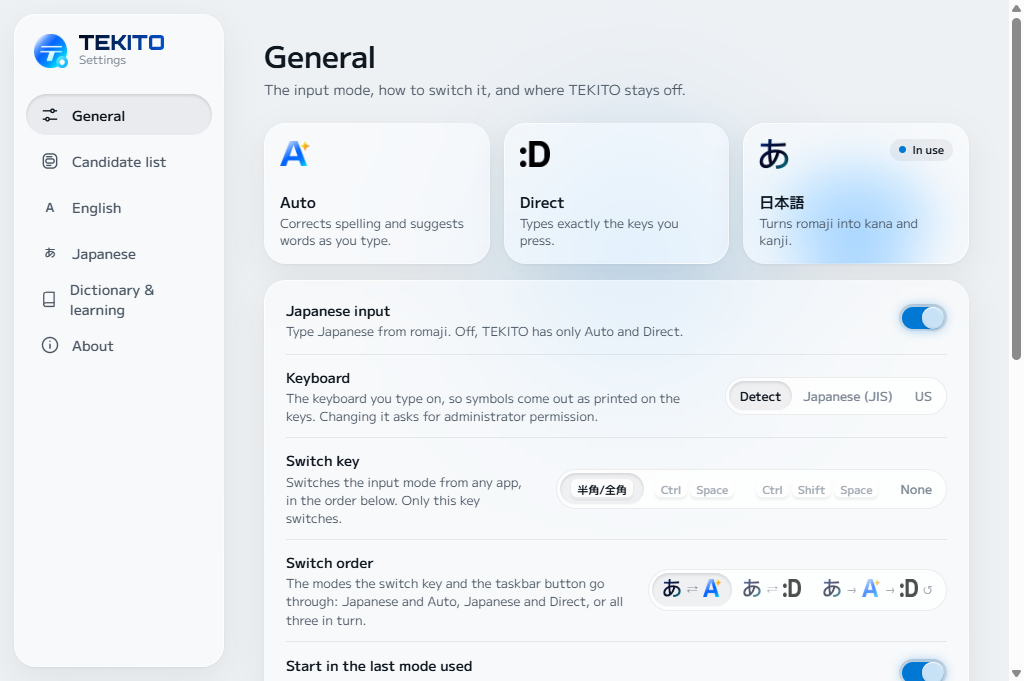
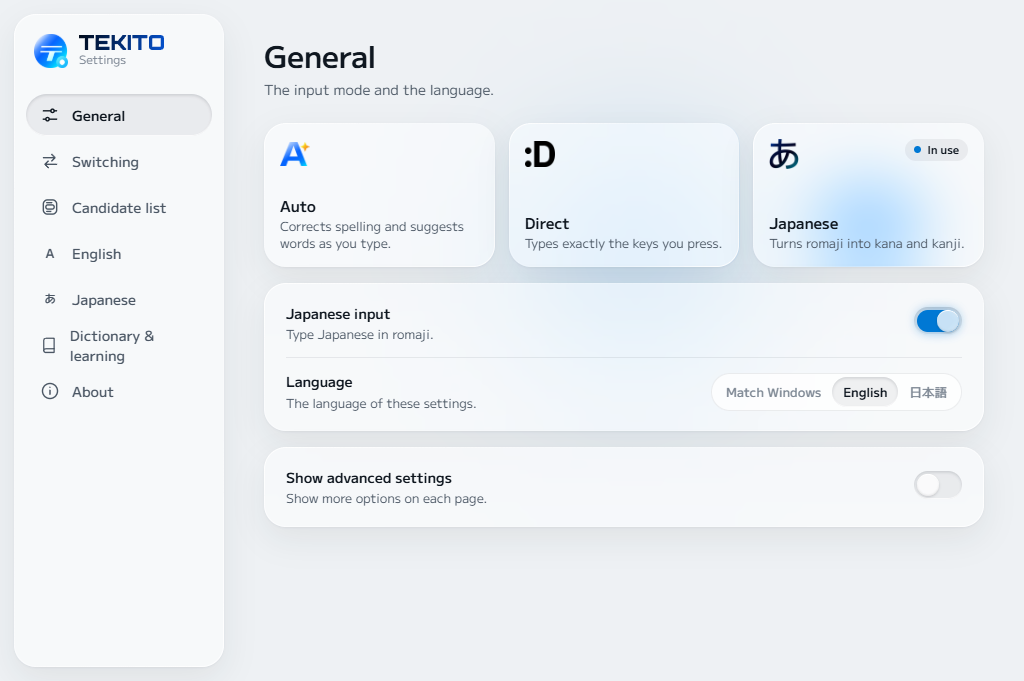
Prepare 0.3.0
Bump the version, describe special conversions, the Japanese user
dictionary, numbers and postal codes and advanced settings in the READMEs,
note in the privacy notice that postal codes are added by hand, and retake
the Settings screenshots.

diff --git a/apps/tekito-settings/ui/src/devHost.js b/apps/tekito-settings/ui/src/devHost.js
@@ -52,7 +52,7 @@ function initialState() {
       excludedApps: ["Code.exe"],
       builtInExcludedApps: ["WindowsTerminal.exe", "OpenConsole.exe", "conhost.exe", "cmd.exe", "powershell.exe", "pwsh.exe"],
     },
-    version: "0.2.0",
+    version: "0.3.0",
     mode: japaneseInstalled ? "japanese" : "auto",
     runtime: { tsf: "Loaded", dataPacks: "12 / 13", japaneseData: japaneseInstalled ? "6 / 6" : "0 / 6", japanese: japaneseInstalled,
       // "?keyboard=us": Windows reports a US keyboard.

diff --git a/README_JP.md b/README_JP.md
@@ -58,7 +58,7 @@ TEKITO は IME（TSF のテキストサービス）なので、普通の Windows
   </tr>
 </table>
 
-切り替えキーは、日本語キーボードなら半角/全角、US キーボードなら Alt+` です（Ctrl+Space、Ctrl+Shift+Space、なしも選べます）。日本語を追加すると、切り替えの順番を「日本語 ⇄ Auto」「日本語 ⇄ Direct」「日本語 → Auto → Direct」から設定で選べます。日本語キーボードでは、変換キーで日本語、無変換キーで英語、ひらがなキーでひらがなの日本語（Shift でカタカナ）になります。
+切り替えキーは、日本語キーボードなら半角/全角、US キーボードなら Alt+` です（Ctrl+Space、Ctrl+Shift+Space、なしも選べます）。日本語を追加すると、切り替えの順番を「日本語 ⇄ Auto」「日本語 ⇄ Direct」「日本語 → Auto → Direct」から設定で選べます。日本語キーボードでは、変換キーで日本語、無変換キーで英語、ひらがなキーでひらがなの日本語（Shift でカタカナ）になります。切り替えると、入力している場所に新しいモードが少しだけ表示されます。
 
 日本語入力は追加するかどうかを選べます。入れていないとき、または設定でオフにしたときは、Auto と Direct だけになります。ターミナル、管理者として実行中のアプリ、設定で追加したアプリでは、TEKITO はオフになります。
 
@@ -76,6 +76,8 @@ Auto で普段どおりに打ちます。入力中の単語に下線が付き、
 | Enter | 候補を選んでいるときはその候補で確定します。それ以外は普通の改行です。 |
 
 次の文字を打った時点で単語は確定するので、あとから取り消す操作はありません。知っている単語、「brb」のようなチャットの略語、自分で大文字にして打った語、コードらしい文字列、URL やアドレス、パスワード・数字・メール用の欄には手を出しません。
+
+いくつかのものは候補にも出ます。「today」「now」で日付と時刻、「(c)」「->」で © と →、「1+2=」で 3 です。打ったとおりが先頭のままなので、選ばなければ何も変わりません。
 
 ![TEKITO の候補リスト。グラスとシンプル、ライトとダーク。選んでいる語の意味が横に出る](docs/images/candidate-list-ja.png)
 
@@ -105,20 +107,25 @@ Auto で普段どおりに打ちます。入力中の単語に下線が付き、
 - **候補の横に意味。** 意味のある候補には小さな本のマークが付き、選んでいる候補の意味が一覧の横に出ます。「初め」と「始め」の違いもその場でわかります。
 - **カタカナには英語も。** 外来語には英単語も候補に出します（ミーティング → meeting）。
 - **書き方を覚えます。** 読みに対して選んだ変換が、次から先に出ます。
+- **自分の単語。** 設定で読みと書き方を登録できます。最初に出すか、候補に出すだけか、出さないかも選べます。
+- **数字・日付・記号。** 数字を数として読むので、「3こ」は「3個」、「100えん」は「100円」になります。数字を変換すると、もう一方の幅や漢数字（千二百三十四）も出ます。「きょう」「いま」で日付と時刻、「やじるし」「ほし」で記号、「にこにこ」で顔文字、「1+2=」で答えが出ます。読みの単語のあとには単漢字も並びます。
+- **郵便番号。** **設定 → 辞書と学習** で日本郵便の郵便番号データを入れると、「1000001」が住所に変換できます。
 
 ## 設定
 
 ![TEKITO の設定画面](docs/images/settings-ja.png)
 
+設定画面には、よく使う項目だけを出しています。「一般」の最後にある **詳細設定を表示** をオンにすると、日本語で打つ文字の幅や、特別な変換を 1 つずつオン・オフするページなど、残りの項目も出ます。
+
 設定画面、インストーラー、TEKITO のメッセージは日本語と英語に対応しています。通常は Windows の表示言語に合わせて表示され、**設定 → 一般 → 表示言語** で切り替えられます。
 
 ## プライバシー
 
-TEKITO の処理はすべて PC の中で行います。入力した内容をどこにも送らず、アカウントもテレメトリもなく、入力中にネットワークを使いません。選んだ候補から学習した内容は `%LOCALAPPDATA%\TEKITO` に保存され、設定画面から消せます。ダウンロードするのは、インストール時に日本語を選んだときの日本語データだけです。詳しくは[プライバシーについて](PRIVACY.md)を参照してください。
+TEKITO の処理はすべて PC の中で行います。入力した内容をどこにも送らず、アカウントもテレメトリもなく、入力中にネットワークを使いません。選んだ候補から学習した内容は `%LOCALAPPDATA%\TEKITO` に保存され、設定画面から消せます。ダウンロードするのは、インストール時に日本語を選んだときの日本語データだけです。郵便番号は、自分で日本郵便からダウンロードしたファイルを設定で入れます。詳しくは[プライバシーについて](PRIVACY.md)を参照してください。
 
 ## インストール
 
-[Releases](https://github.com/Canta360/tekito/releases/latest) から `TEKITO-0.2.0-full-installer.exe` をダウンロードして実行します。
+[Releases](https://github.com/Canta360/tekito/releases/latest) から `TEKITO-0.3.0-full-installer.exe` をダウンロードして実行します。
 
 - **日本語入力を追加する**（Windows が日本語表示ならオン）を選ぶと、日本語の辞書と言語データ（約 45 MB）を同じリリースからダウンロードし、インストーラーが持っているチェックサムと照合します。TEKITO は日本語のキーボード一覧に入ります。英語は Auto と Direct で打てるので、英語の一覧からは外れます（**オプション**で残すこともできます）。
 - 日本語を選ばない場合は、英語のキーボード一覧に Auto と Direct の TEKITO が入ります。あとからインストーラーを実行し直せば日本語を追加できます。

diff --git a/README.md b/README.md
@@ -68,7 +68,8 @@ one (or Ctrl+Space, Ctrl+Shift+Space, or none). With Japanese, it goes
 between Japanese and Auto, Japanese and Direct, or round all three, as you
 choose in Settings. On
 a Japanese keyboard, Henkan switches to Japanese, Muhenkan to English, and
-Hiragana to Japanese in hiragana (katakana with Shift).
+Hiragana to Japanese in hiragana (katakana with Shift). After a switch, the
+new mode shows by the caret for a moment.
 
 Japanese input is optional. Without it, or with it turned off in Settings,
 TEKITO has Auto and Direct only. It stays off in terminals, in apps running
@@ -92,6 +93,10 @@ Typing the next letter settles the word, so there is nothing to undo later.
 TEKITO leaves alone words it recognizes, chat abbreviations like “brb”,
 anything you capitalize yourself, anything that looks like code, URLs and
 addresses, and fields marked as passwords, numbers or email.
+
+A few things come up as choices too: “today” and “now” offer the date and
+time, “(c)” and “->” offer © and →, and “1+2=” offers 3. What you typed
+stays first, so nothing changes unless you pick one.
 
 ![The TEKITO candidate list, glass and simple, in light and dark, with the meaning of the highlighted word beside it](docs/images/candidate-list.png)
 
@@ -134,10 +139,23 @@ for the phrase in focus.
   (ミーティング → meeting).
 - **It learns your way of writing.** The conversion you pick for a reading
   comes first the next time.
+- **Your own words.** Add a reading and how you write it in Settings, and
+  choose whether it comes first, is only offered, or never comes up.
+- **Numbers, dates and symbols.** Digits read as numbers, so 3こ is 3個 and
+  100えん 100円, and converting a number offers the other width and kanji
+  (千二百三十四). きょう and いま offer the date and time, やじるし and ほし
+  symbols, にこにこ emoticons, and 1+2= its answer. Single kanji come after
+  a reading's words.
+- **Postal codes.** Add Japan Post's postal code data under
+  **Settings → Dictionary & learning**, and 1000001 converts to its address.
 
 ## Settings
 
 ![TEKITO Settings](docs/images/settings.png)
+
+Settings shows what most people change; **Show advanced settings** at the
+end of General adds the rest, such as the widths of what you type in
+Japanese and a page to turn each special conversion on or off.
 
 Settings, the setup program and TEKITO's own messages are available in
 English and Japanese; they follow the Windows display language unless you
@@ -150,11 +168,13 @@ typing anywhere, it has no account and no telemetry, and it does not use the
 network while you type. What it learns from your choices stays in
 `%LOCALAPPDATA%\TEKITO` and can be cleared from Settings. The only download
 is the Japanese data, fetched by the setup program when you choose Japanese.
+Postal codes come from a file you download from Japan Post yourself and add
+in Settings.
 See [the privacy notice](PRIVACY.md).
 
 ## Install
 
-Download `TEKITO-0.2.0-full-installer.exe` from
+Download `TEKITO-0.3.0-full-installer.exe` from
 [Releases](https://github.com/Canta360/tekito/releases/latest) and run it.
 
 - **Add Japanese input** (on when Windows shows Japanese) downloads the

diff --git a/PRIVACY.md b/PRIVACY.md
@@ -54,6 +54,12 @@ about you beyond what any download does, such as your IP address, and
 GitHub's privacy terms apply to it. Installing from a ZIP you downloaded
 yourself (`install.ps1 -JapaneseDataPath`) makes no request at all.
 
+## Postal codes
+
+TEKITO does not download postal code data. **Open Japan Post's page** in
+Settings only opens the page in your browser; the file you download there
+and add in Settings is read on your computer.
+
 ---
 
 ## プライバシー（日本語）
@@ -62,6 +68,7 @@ TEKITO の処理はすべて PC の中で行われます。入力した内容、
 
 - 設定・ユーザー辞書・学習内容は `%LOCALAPPDATA%\TEKITO\user.db` に保存されます。学習しているのは「どの単語でどの候補を選んだか」と、日本語では「どの読みにどの変換を選んだか」の回数だけで、文章や入力履歴は保存しません。日本語の変換は文全体を読むために直前に確定した数語をメモリーにだけ持ちますが、続けて打っている間だけ使い、カーソルがほかへ移ると忘れます。保存はしません。
 - インストール時に日本語を選ぶと、日本語データを GitHub の TEKITO のリリースからダウンロードし、チェックサムを確かめます。ネットワークを使うのはこのときだけです。自分でダウンロードした ZIP から入れる場合（`install.ps1 -JapaneseDataPath`）は通信しません。
+- 郵便番号のデータは、TEKITO はダウンロードしません。設定の「日本郵便のページを開く」はブラウザでページを開くだけで、自分でダウンロードしたファイルを設定に入れると、この PC の中で取り込みます。
 - 診断ログ（`%TEMP%\TekitoTsf.log`、トレース用ビルドか `TEKITO_TSF_TRACE=1` のときだけ作られます）と設定画面の「Copy diagnostics」には、イベント・時間・エラーコードだけが含まれ、入力した文字は含まれません。
 - 学習は設定画面の「辞書と学習 → 選んだ候補から学ぶ」でオン/オフでき、「消去」で消せます。日本語の変換の学習だけを消すこともできます。「一般 → TEKITO をオフにするアプリ」に追加したアプリでは完全にオフになります。
 - アンインストールしても辞書・学習・設定は残ります。消す場合はインストーラーのパッケージにある `uninstall.ps1 -RemoveUserData` を実行してください。

diff --git a/installer/INSTALL_JP.md b/installer/INSTALL_JP.md
@@ -2,7 +2,7 @@
 
 ## いちばん簡単な方法
 
-`TEKITO-0.2.0-full-installer.exe` を実行します。使用許諾への同意を求められたあと、自動でインストールされます。
+`TEKITO-0.3.0-full-installer.exe` を実行します。使用許諾への同意を求められたあと、自動でインストールされます。
 
 - 「日本語入力を追加する」を選ぶと、日本語の辞書と言語データ（約 45 MB）を GitHub のリリースからダウンロードし、チェックサムを確かめてからインストールします。TEKITO は日本語のキーボード一覧に入ります。
 - 日本語を選ばない場合は、英語のキーボード一覧に入ります。あとからインストーラーを実行し直せば日本語を追加できます。
@@ -13,7 +13,7 @@
 
 ## ZIP から手動でインストールする
 
-`TEKITO-0.2.0-full.zip` を展開し、そのフォルダで管理者 PowerShell を開いて次を実行します。
+`TEKITO-0.3.0-full.zip` を展開し、そのフォルダで管理者 PowerShell を開いて次を実行します。
 
 ```powershell
 Set-ExecutionPolicy -Scope Process Bypass -Force
@@ -21,11 +21,11 @@ Set-ExecutionPolicy -Scope Process Bypass -Force
 .\install.ps1
 ```
 
-日本語も入れるときは `-Japanese $true` を付けます。ネットワークを使わずに入れる場合は、同じリリースの `TEKITO-0.2.0-japanese-data.zip` を先にダウンロードしておき、その場所を指定します（チェックサムは同じように確かめます）。
+日本語も入れるときは `-Japanese $true` を付けます。ネットワークを使わずに入れる場合は、同じリリースの `TEKITO-0.3.0-japanese-data.zip` を先にダウンロードしておき、その場所を指定します（チェックサムは同じように確かめます）。
 
 ```powershell
 .\install.ps1 -Japanese $true
-.\install.ps1 -JapaneseDataPath C:\Downloads\TEKITO-0.2.0-japanese-data.zip
+.\install.ps1 -JapaneseDataPath C:\Downloads\TEKITO-0.3.0-japanese-data.zip
 ```
 
 英語のキーボード一覧にも TEKITO を残すときは `-KeepEnglishProfile $true` を付けます。
